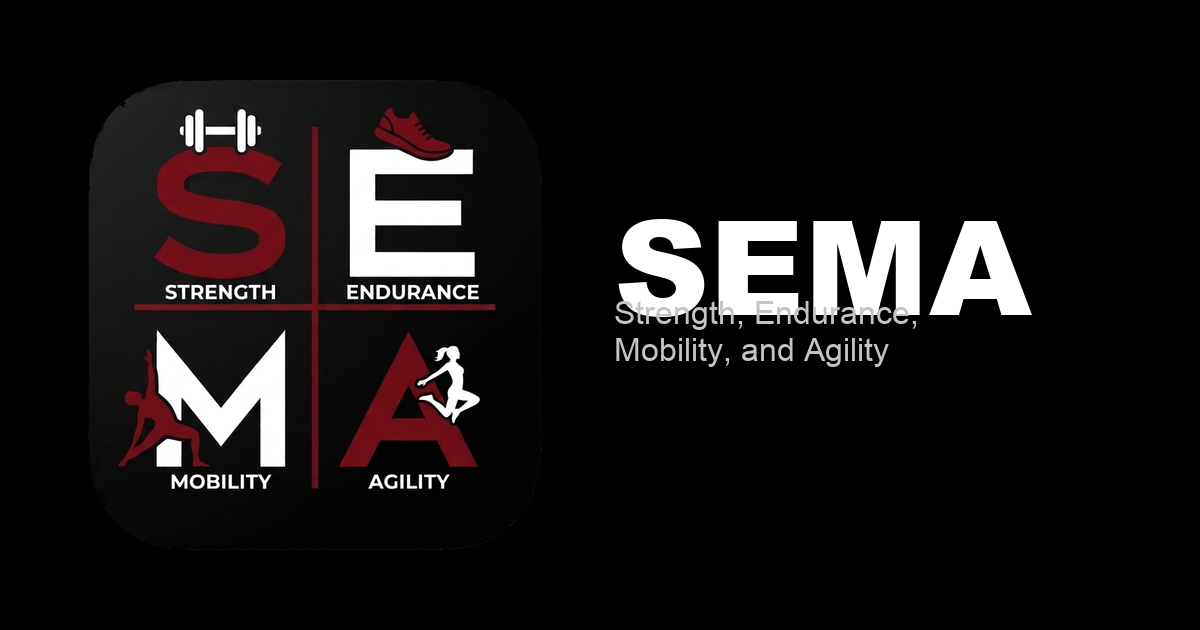
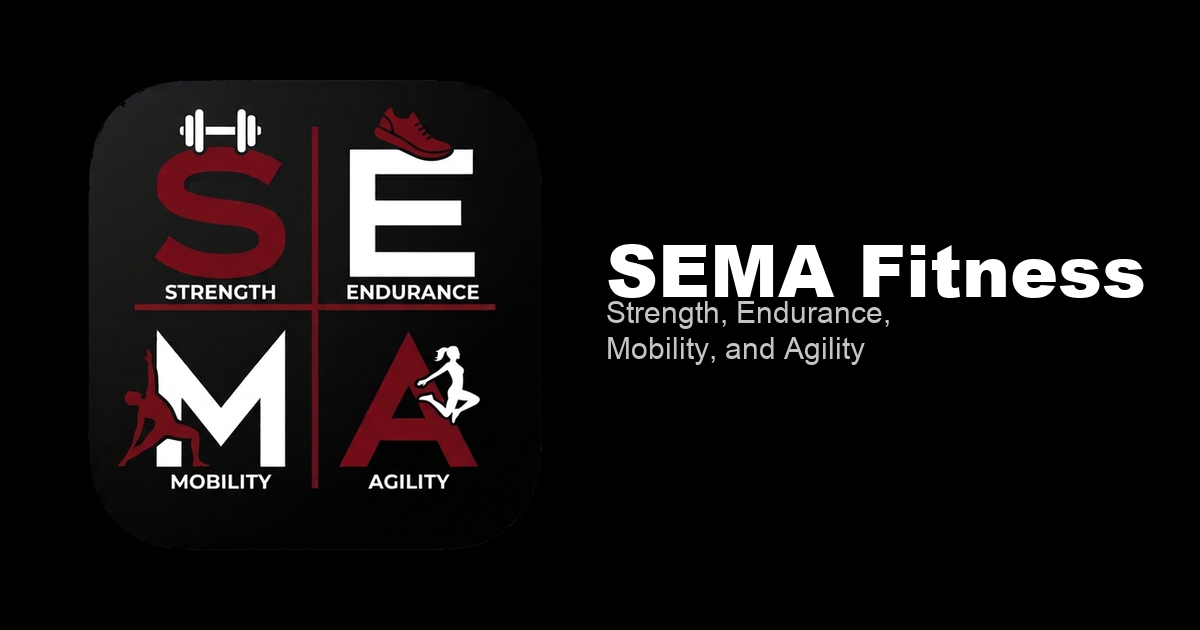
Changing SEMA to SEMA Fitness

Changed region(s): [[0.4933, 0.3317, 0.9558, 0.573]]

diff --git a/Projects/ironcrew/app/privacy/page.tsx b/Projects/ironcrew/app/privacy/page.tsx
@@ -12,7 +12,7 @@ const SECTIONS = [
   },
   {
     title: "Who can see it",
-    body: "You can see your own account. A trainer can see the clients they coach, including those clients' goals and workout logs. Another trainer cannot. SEMA does not sell personal information and does not show ads.",
+    body: "You can see your own account. A trainer can see the clients they coach, including those clients' goals and workout logs. Another trainer cannot. SEMA Fitness does not sell personal information and does not show ads.",
   },
   {
     title: "This release is free",
@@ -37,7 +37,7 @@ export default function PrivacyPage() {
     <main className="mx-auto w-full max-w-2xl px-6 py-12 md:py-16">
       <h1 className="text-3xl font-bold tracking-tight">Privacy Policy</h1>
       <p className="mt-3 text-sm text-muted-foreground">
-        This policy covers SEMA. Training risks are in the{" "}
+        This policy covers SEMA Fitness. Training risks are in the{" "}
         <Link href="/terms" className="font-medium underline underline-offset-2">
           Terms and Conditions
         </Link>

diff --git a/Projects/ironcrew/app/layout.tsx b/Projects/ironcrew/app/layout.tsx
@@ -9,33 +9,33 @@ const defaultUrl = siteUrl();
 
 export const metadata: Metadata = {
   metadataBase: new URL(defaultUrl),
-  applicationName: "SEMA",
-  title: "SEMA",
+  applicationName: "SEMA Fitness",
+  title: "SEMA Fitness",
   description: "Strength, Endurance, Mobility, and Agility.",
   openGraph: {
-    title: "SEMA",
+    title: "SEMA Fitness",
     description: "Strength, Endurance, Mobility, and Agility.",
-    siteName: "SEMA",
+    siteName: "SEMA Fitness",
     type: "website",
     images: [
       {
         url: "/opengraph-image.png",
         width: 1200,
         height: 630,
-        alt: "SEMA",
+        alt: "SEMA Fitness",
       },
     ],
   },
   twitter: {
     card: "summary_large_image",
-    title: "SEMA",
+    title: "SEMA Fitness",
     description: "Strength, Endurance, Mobility, and Agility.",
     images: [
       {
         url: "/twitter-image.png",
         width: 1200,
         height: 630,
-        alt: "SEMA",
+        alt: "SEMA Fitness",
       },
     ],
   },

diff --git a/Projects/ironcrew/app/terms/page.tsx b/Projects/ironcrew/app/terms/page.tsx
@@ -29,7 +29,7 @@ export default function TermsPage() {
     <main className="mx-auto w-full max-w-2xl px-6 py-12 md:py-16">
       <h1 className="text-3xl font-bold tracking-tight">Terms and Conditions</h1>
       <p className="mt-3 text-sm text-muted-foreground">
-        These terms cover training with SEMA. By continuing, you agree to them.
+        These terms cover training with SEMA Fitness. By continuing, you agree to them.
         How account data is stored, exported, and deleted is in the{" "}
         <Link href="/privacy" className="font-medium underline underline-offset-2">
           Privacy Policy

diff --git a/Projects/ironcrew/components/sign-up-form.tsx b/Projects/ironcrew/components/sign-up-form.tsx
@@ -70,7 +70,7 @@ export function SignUpForm({
     <div className={cn("flex flex-col gap-6", className)} {...props}>
       <Card>
         <CardHeader>
-          <img src="/icon.png" alt="SEMA" width={72} height={72} className="size-[72px] rounded-[22%]" />
+          <img src="/icon.png" alt="SEMA Fitness" width={72} height={72} className="size-[72px] rounded-[22%]" />
           <CardTitle className="text-2xl">Sign up</CardTitle>
           <CardDescription>Create a new account</CardDescription>
         </CardHeader>

diff --git a/Projects/ironcrew/components/login-form.tsx b/Projects/ironcrew/components/login-form.tsx
@@ -50,7 +50,7 @@ export function LoginForm({
     <div className={cn("flex flex-col gap-6", className)} {...props}>
       <Card>
         <CardHeader>
-          <img src="/icon.png" alt="SEMA" width={72} height={72} className="size-[72px] rounded-[22%]" />
+          <img src="/icon.png" alt="SEMA Fitness" width={72} height={72} className="size-[72px] rounded-[22%]" />
           <CardTitle className="text-2xl">Login</CardTitle>
           <CardDescription>
             Enter your email below to login to your account

diff --git a/Projects/ironcrew/e2e/main-flows.spec.ts b/Projects/ironcrew/e2e/main-flows.spec.ts
@@ -65,7 +65,7 @@ test("a new trainer finishes onboarding and reaches the dashboard", async ({ pag
 
   try {
     await signIn(page, email, password);
-    await expect(page.getByRole("heading", { name: "Welcome to SEMA" })).toBeVisible();
+    await expect(page.getByRole("heading", { name: "Welcome to SEMA Fitness" })).toBeVisible();
     await page.getByRole("radio", { name: /Trainer/ }).click();
     await page.getByLabel("First name").fill("E2E");
     await page.locator("#terms-agreement").check();

diff --git a/Projects/ironcrew/lib/api/main-flows.test.ts b/Projects/ironcrew/lib/api/main-flows.test.ts
@@ -385,7 +385,7 @@ test("account export is a download and delete signs the caller out", async () =>
     exportRoute.GET(),
   );
   assert.equal(exported.status, 200);
-  assert.match(exported.headers.get("content-disposition") ?? "", /sema-data.json/);
+  assert.match(exported.headers.get("content-disposition") ?? "", /sema-fitness-data.json/);
 
   const removed = createFake({ user, results: [{ data: null }] });
   const deleted = await use(removed, () => accountRoute.DELETE());

diff --git a/Projects/ironcrew/components/dashboard/account-data-controls.tsx b/Projects/ironcrew/components/dashboard/account-data-controls.tsx
@@ -23,7 +23,7 @@ export function AccountDataControls() {
       const url = URL.createObjectURL(blob);
       const link = document.createElement("a");
       link.href = url;
-      link.download = "sema-data.json";
+      link.download = "sema-fitness-data.json";
       link.click();
       URL.revokeObjectURL(url);
     } catch (caught: unknown) {

diff --git a/Projects/ironcrew/app/api/me/export/route.ts b/Projects/ironcrew/app/api/me/export/route.ts
@@ -12,7 +12,7 @@ export async function GET() {
     status: 200,
     headers: {
       "Content-Type": "application/json",
-      "Content-Disposition": 'attachment; filename="sema-data.json"',
+      "Content-Disposition": 'attachment; filename="sema-fitness-data.json"',
       "Cache-Control": "no-store",
     },
   });

diff --git a/Projects/ironcrew/components/onboarding/role-step.tsx b/Projects/ironcrew/components/onboarding/role-step.tsx
@@ -88,7 +88,7 @@ export function RoleStep({
   return (
     <StepCard
       position={{ current: 1, total }}
-      title="Welcome to SEMA"
+      title="Welcome to SEMA Fitness"
       description="Tell us how you will be using the app."
     >
       <form onSubmit={handleSubmit}>
